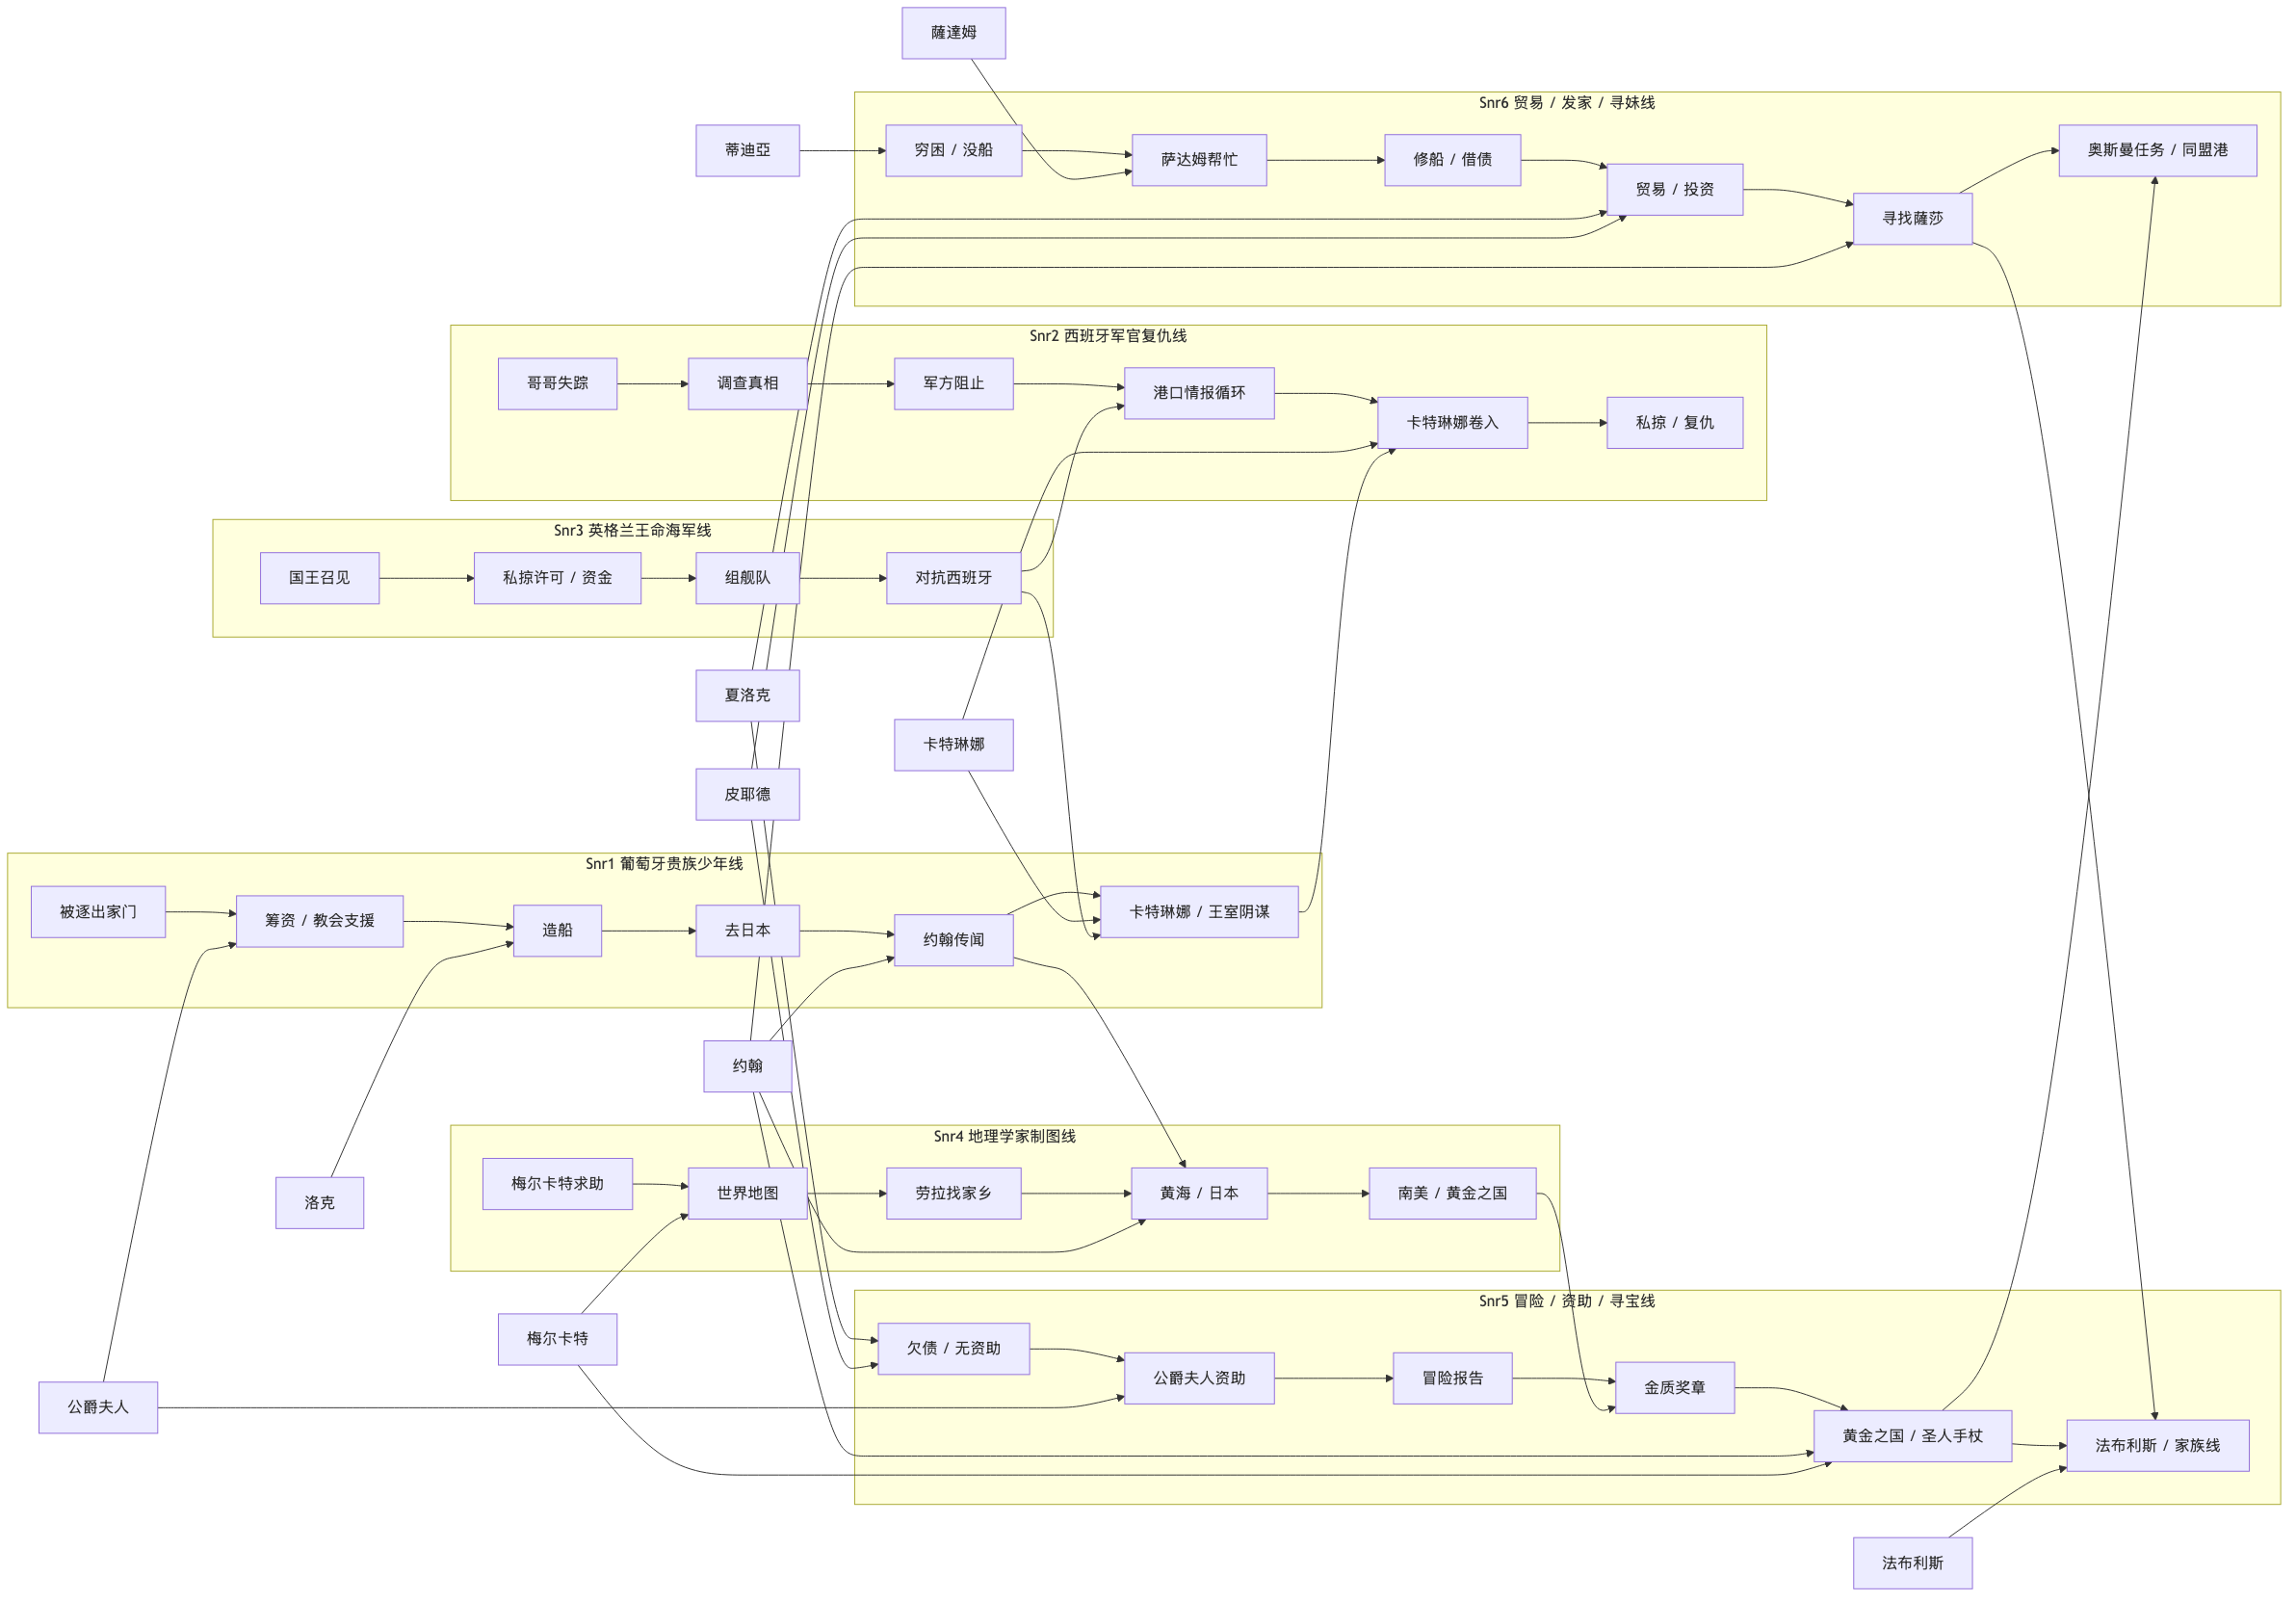
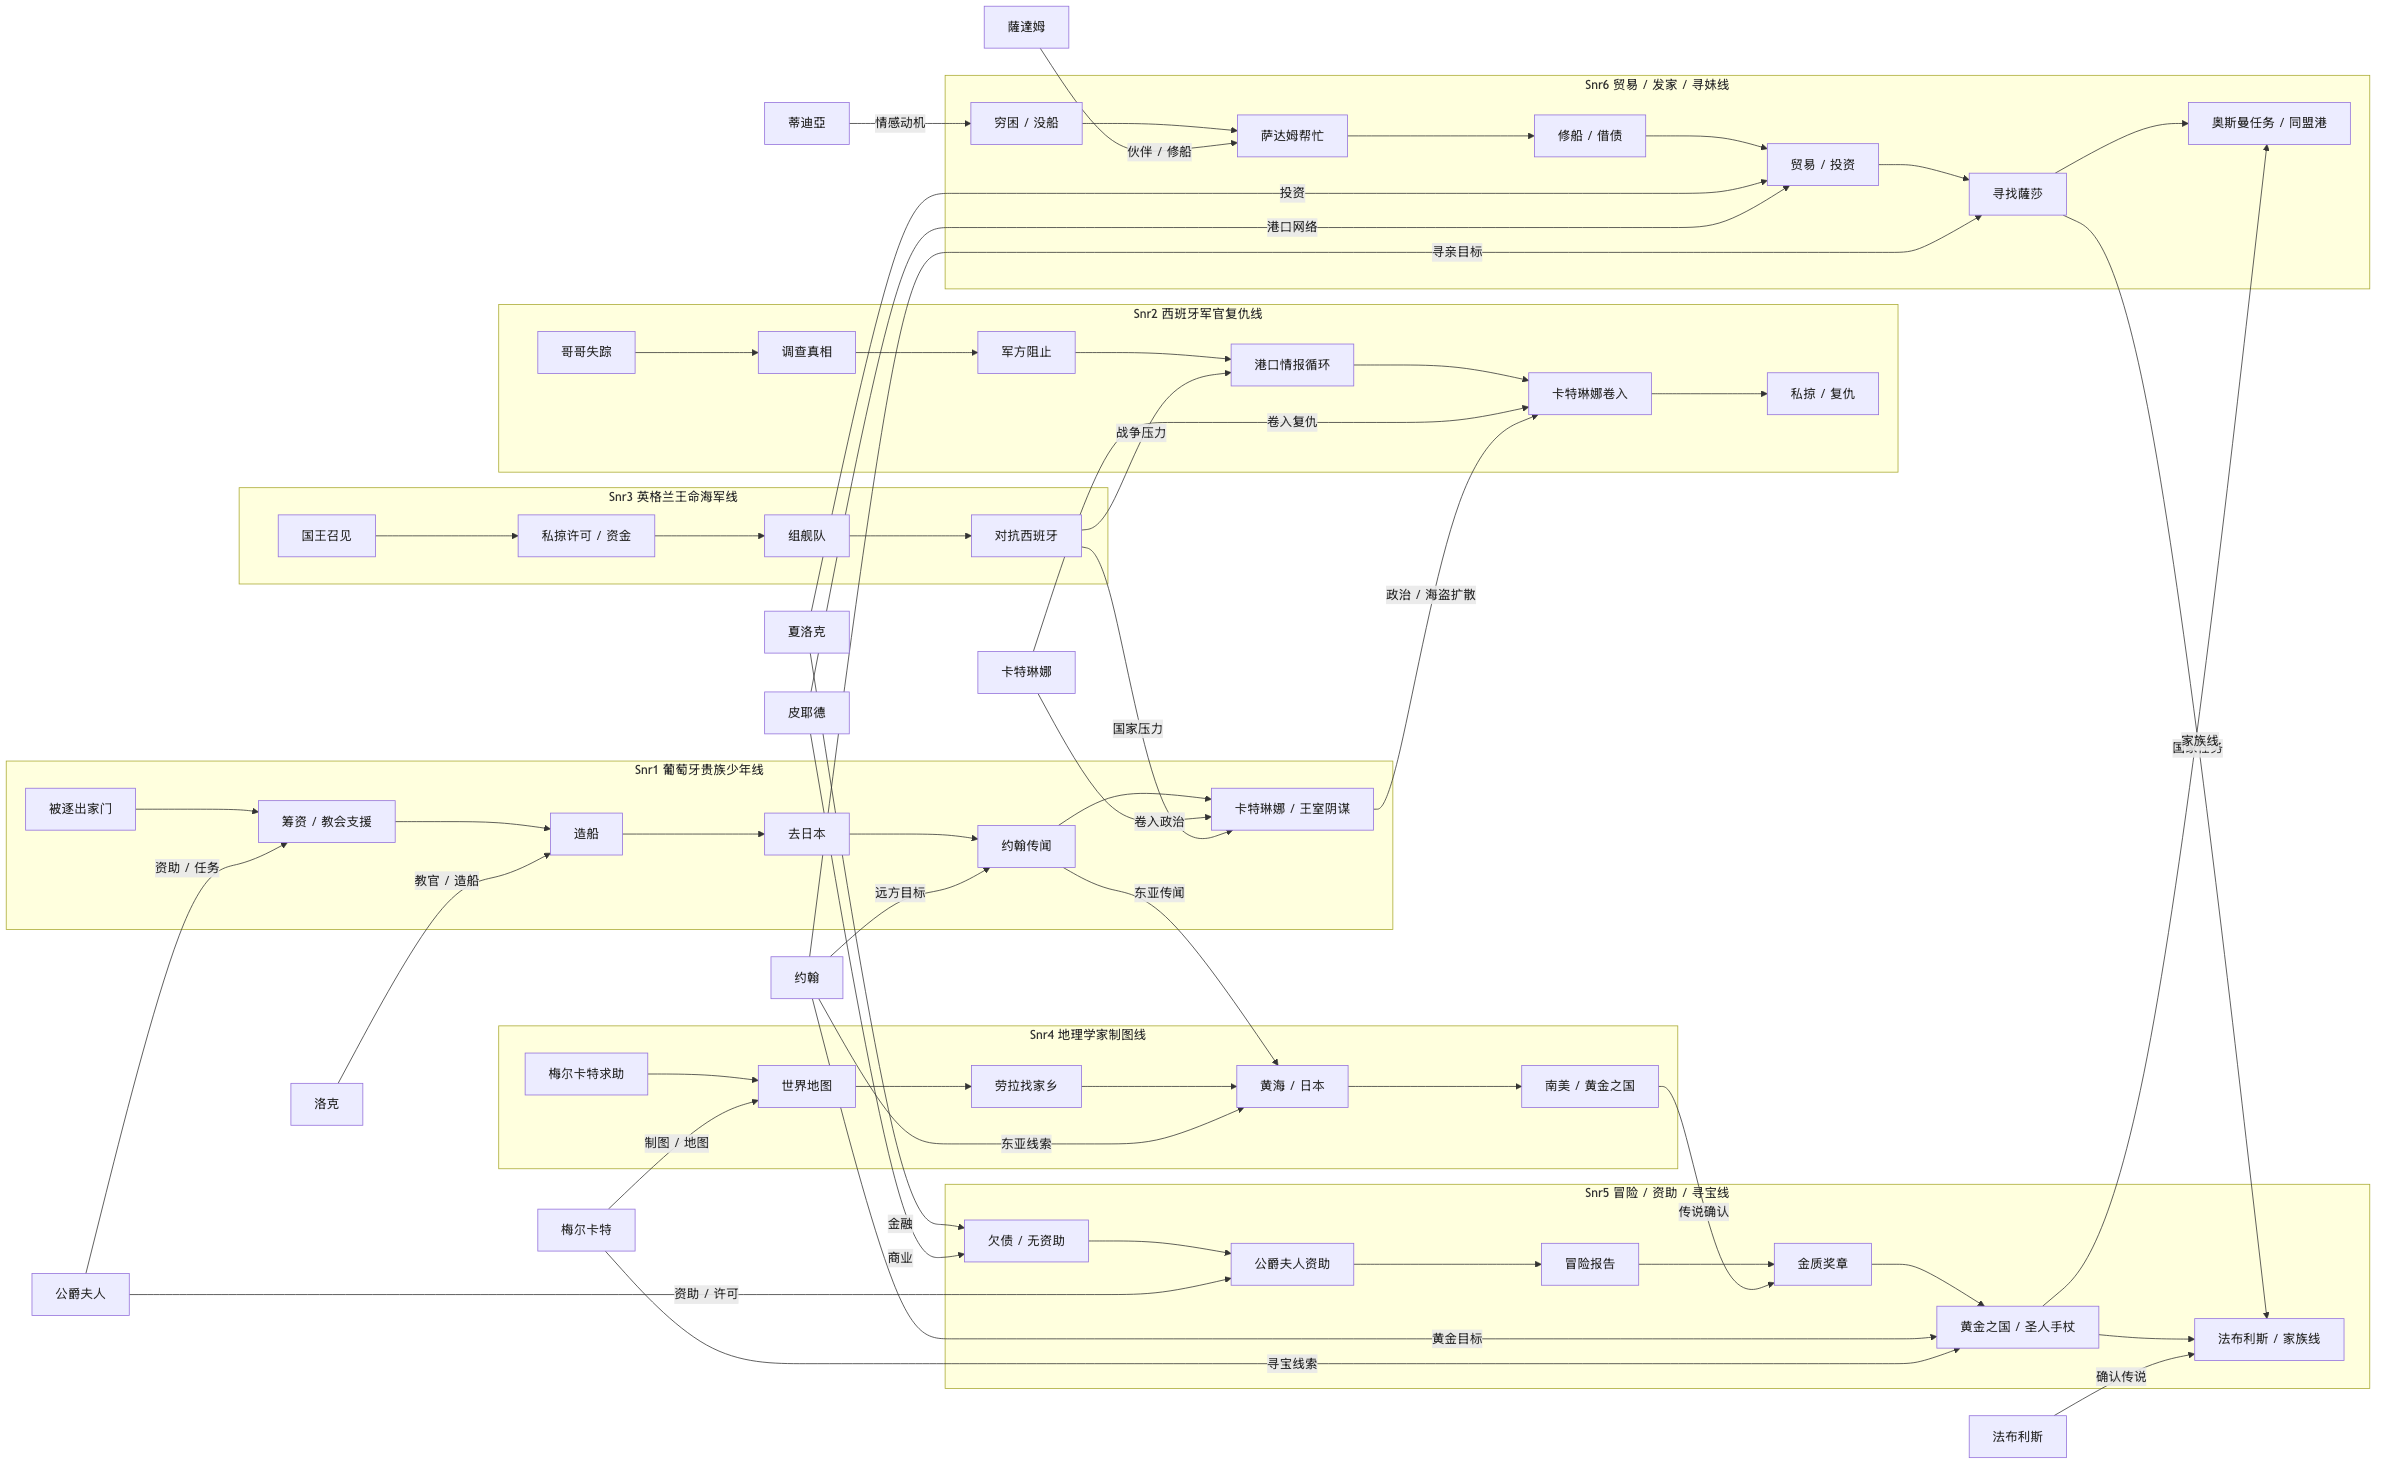
Refresh six-line topology graph

diff --git a/docs/游戏逻辑说明.md b/docs/游戏逻辑说明.md
@@ -198,7 +198,7 @@ flowchart LR
 
 ### 4.0 六条线总图
 
-这张图把六条主人公线放在一张图里，重点不是每条线内部的细节，而是它们之间怎么互相借人、借目标、借状态。
+这张图把六条主人公线放在一张图里，重点不是每条线内部的细节，而是它们之间怎么互相借人、借目标、借状态。带标签的箭头是跨线关系，后面的章节会把这些关系继续拆成事件、状态和人物-地点-事件三联表。
 
 ![六条主人公线总图](./six_storylines_overview.png)
 
@@ -273,32 +273,32 @@ flowchart LR
   S5A --> S5B --> S5C --> S5D --> S5E --> S5F
   S6A --> S6B --> S6C --> S6D --> S6E --> S6F
 
-  Duke --> S1B
-  Duke --> S5B
-  Locke --> S1C
-  John --> S1E
-  John --> S4D
-  John --> S5E
-  John --> S6E
-  Catalina --> S1F
-  Catalina --> S2E
-  Mercator --> S4B
-  Mercator --> S5E
-  Fabrice --> S5F
-  Sherlock --> S5A
-  Sherlock --> S6D
-  Pied --> S5A
-  Pied --> S6D
-  Tidia --> S6A
-  Sadaam --> S6B
+  Duke -->|资助 / 任务| S1B
+  Duke -->|资助 / 许可| S5B
+  Locke -->|教官 / 造船| S1C
+  John -->|远方目标| S1E
+  John -->|东亚线索| S4D
+  John -->|黄金目标| S5E
+  John -->|寻亲目标| S6E
+  Catalina -->|卷入政治| S1F
+  Catalina -->|卷入复仇| S2E
+  Mercator -->|制图 / 地图| S4B
+  Mercator -->|寻宝线索| S5E
+  Fabrice -->|确认传说| S5F
+  Sherlock -->|金融| S5A
+  Sherlock -->|投资| S6D
+  Pied -->|商业| S5A
+  Pied -->|港口网络| S6D
+  Tidia -->|情感动机| S6A
+  Sadaam -->|伙伴 / 修船| S6B
 
-  S1F --> S2E
-  S1E --> S4D
-  S4E --> S5D
-  S5E --> S6F
-  S6E --> S5F
-  S3D --> S2D
-  S3D --> S1F
+  S1F -->|政治 / 海盗扩散| S2E
+  S1E -->|东亚传闻| S4D
+  S4E -->|传说确认| S5D
+  S5E -->|国家任务| S6F
+  S6E -->|家族线| S5F
+  S3D -->|战争压力| S2D
+  S3D -->|国家压力| S1F
 ```
 
 这张总图要表达的是：